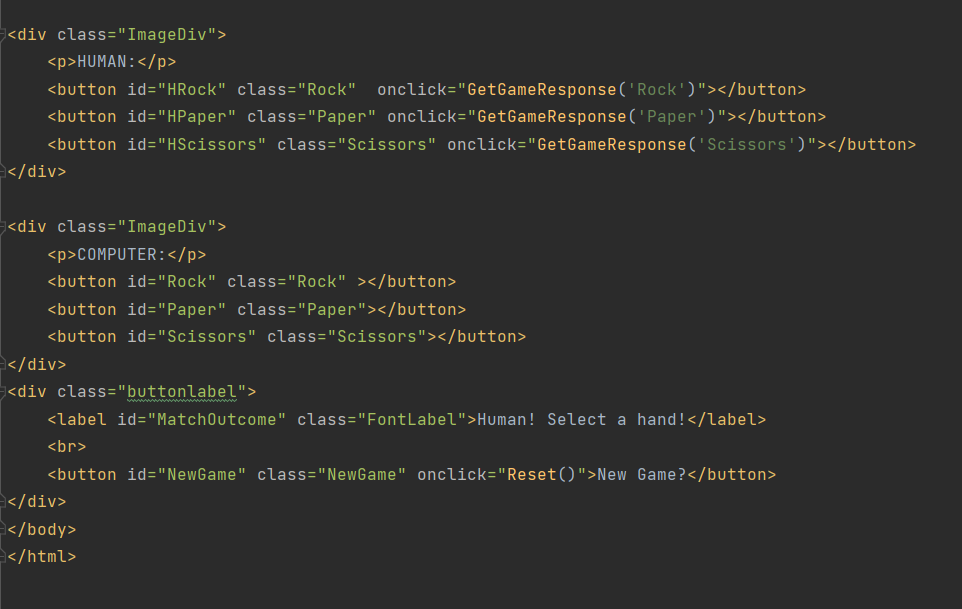
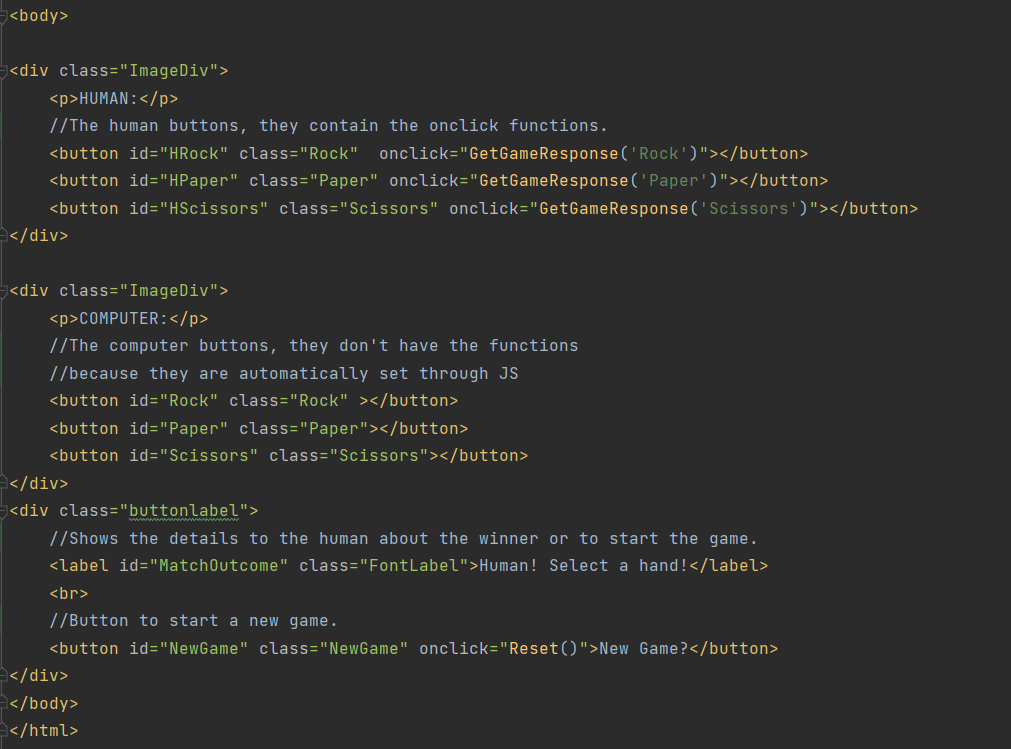
new screenshots

Changed region(s): [[0.0, 0.0, 0.9667, 0.9984]]

diff --git a/Source/ICP-3/RWDTask/input.html b/Source/ICP-3/RWDTask/input.html
@@ -13,51 +13,52 @@ TODO:
 <head>
     <title>RWD Task</title>
     <meta content="text/html; charset=windows-1252" http-equiv="Content-Type">
-    <meta name="viewport" content="width=device-width, initial-scale=1">
+    <meta content='maximum-scale=1.0, initial-scale=1.0, width=device-width' name='viewport'>
     <link rel="stylesheet" type="text/css" href="Style.css">
-    <link rel="stylesheet" href="https://maxcdn.bootstrapcdn.com/bootstrap/3.4.1/css/bootstrap.min.css">
-    <script src="https://ajax.googleapis.com/ajax/libs/jquery/3.5.1/jquery.min.js"></script>
-    <script src="https://maxcdn.bootstrapcdn.com/bootstrap/3.4.1/js/bootstrap.min.js"></script>
+    <link href="https://cdn.jsdelivr.net/npm/bootstrap@5.1.1/dist/css/bootstrap.min.css" rel="stylesheet" integrity="sha384-F3w7mX95PdgyTmZZMECAngseQB83DfGTowi0iMjiWaeVhAn4FJkqJByhZMI3AhiU" crossorigin="anonymous">
+    <script src="https://cdn.jsdelivr.net/npm/bootstrap@5.1.1/dist/js/bootstrap.bundle.min.js" integrity="sha384-/bQdsTh/da6pkI1MST/rWKFNjaCP5gBSY4sEBT38Q/9RBh9AH40zEOg7Hlq2THRZ" crossorigin="anonymous"></script>
+    <script src="https://cdn.jsdelivr.net/npm/@popperjs/core@2.9.3/dist/umd/popper.min.js" integrity="sha384-W8fXfP3gkOKtndU4JGtKDvXbO53Wy8SZCQHczT5FMiiqmQfUpWbYdTil/SxwZgAN" crossorigin="anonymous"></script>
+    <script src="https://cdn.jsdelivr.net/npm/bootstrap@5.1.1/dist/js/bootstrap.min.js" integrity="sha384-skAcpIdS7UcVUC05LJ9Dxay8AXcDYfBJqt1CJ85S/CFujBsIzCIv+l9liuYLaMQ/" crossorigin="anonymous"></script>
 </head>
 <body>
 <div class="container">
     <div class="row rowSpecific">
-        <div class="col-xs-6">
+        <div class="col-sm-6">
             <img class="TopImage" alt="Bean" src="Images/bean.jpg">
         </div>
-        <div class="col-xs-6 text-right">
+        <div class="col-sm-6 text-right">
             <h1 class="TopHeader">MOHAMAD ABBOUD</h1>
             <h3 class="BottomHeader">FRONT-END DEVELOPER</h3>
         </div>
     </div>
 
     <div class="row">
-        <div class="col-xs-12">
-            <img class="MidImage" alt="Image" src="Images/Image.png">
+        <div class="col-sm-12">
+            <img class="MidImage" class="img-fluid" alt="Image" src="Images/Image.png">
         </div>
     </div>
     <div class="row">
-        <div class="col-xs-4">
+        <div class="col-sm-4">
             <h2>Featured Work</h2>
         </div>
     </div>
     <div class="row">
-        <div class="col-xs-4 text-center">
-            <img class="AppImage" alt="app1" src="Images/app1.png">
+        <div class="col-sm-4 text-center">
+            <img class="img-fluid AppImage" alt="app1" src="Images/app3.png">
             <h3 class="AppHeader">ICP1</h3>
             <p><a href="https://github.com/MoAbboud/Web-and-Mobile-Dev/tree/main/Source/ICP-1" target="_blank">
                 https://github.com/MoAbboud/Web-and-Mobile-Dev/tree/main/Source/ICP-1</a>
             </p>
         </div>
-        <div class="col-xs-4 text-center">
-            <img class="AppImage" alt="app2" src="Images/app2.png">
+        <div class="col-sm-4 text-center">
+            <img class="img-fluid AppImage" alt="app2" src="Images/app3.png">
             <h3 class="AppHeader">ICP2</h3>
             <p><a href="https://github.com/MoAbboud/Web-and-Mobile-Dev/tree/main/Source/ICP-2" target="_blank">
                 https://github.com/MoAbboud/Web-and-Mobile-Dev/tree/main/Source/ICP-2</a>
             </p>
         </div>
-        <div class="col-xs-4 text-center">
-            <img class="AppImage" alt="app3" src="Images/app3.png">
+        <div class="col-sm-4 text-center">
+            <img class="img-fluid AppImage" alt="app3" src="Images/app3.png">
             <h3 class="AppHeader">ICP3</h3>
             <p><a href="https://github.com/MoAbboud/Web-and-Mobile-Dev/tree/main/Source/ICP-3" target="_blank">
                 https://github.com/MoAbboud/Web-and-Mobile-Dev/tree/main/Source/ICP-3</a>
@@ -65,8 +66,8 @@ TODO:
         </div>
     </div>
     <div class="row">
-        <div class="col-xs-4 text-center">
-            <img class="AppImage" alt="app4" src="Images/app3.png">
+        <div class="col-sm-4 text-center">
+            <img class="img-fluid AppImage" alt="app4" src="Images/app3.png">
             <h3 class="AppHeader">Angular</h3>
             <p><a href="https://github.com/angular/angular" target="_blank">https://github.com/angular/angular</a></p>
         </div>

diff --git a/Source/ICP-3/JavaScriptTask/index.html b/Source/ICP-3/JavaScriptTask/index.html
@@ -7,16 +7,24 @@
 
     <script>
         function GetGameResponse(choice1) {
-            var arrayofChoice = ["Rock", "Paper", "Scissors"];
+            var arrayofChoice = ["Rock", "Paper", "Scissors"]; //Assigning an array with the choices
 
+            //Using Math.Random I want to get a number between 0 and 2
+            //Using Math.Floor I make sure that number isnt a decimal
             var computerOutput = Math.floor(Math.random() * 3);
 
+            //After getting the random number I use it to select one of the choice from the array
             var pcChoice = arrayofChoice[computerOutput].toString();
+            //Change the opacity for the button that will be the computers choice
             document.getElementById(pcChoice.toString()).style.opacity = "1";
 
             document.getElementById("MatchOutcome").style.color = "#000000";
             document.getElementById("MatchOutcome").innerHTML = "";
+            //Now that I have both the human and computer choice I can make the comparison
+            //to see who won the round.
             if (choice1 == "Rock") {
+                //Similarly for all the options
+                //Whichever choice the human chooses the button's opacity will change to 1
                 document.getElementById("HRock").style.opacity = "1";
                 if (arrayofChoice[computerOutput].toString() == "Rock") {
                     document.getElementById("MatchOutcome").innerHTML = "No winner, play again?";
@@ -44,12 +52,15 @@
                     document.getElementById("MatchOutcome").innerHTML = "No winner, play again?";
                 }
             }
+
+            //Disable the buttons so that the user can't click any other choice during the round
             document.getElementById("HRock").disabled = true;
             document.getElementById("HPaper").disabled = true;
             document.getElementById("HScissors").disabled = true;
         }
 
         function Reset(){
+            //Returning all buttons to their original opacity and enabling them for a new game.
             document.getElementById("Rock").style.opacity = "0.3";
             document.getElementById("Paper").style.opacity = "0.3";
             document.getElementById("Scissors").style.opacity = "0.3";
@@ -70,6 +81,7 @@
 
 <div class="ImageDiv">
     <p>HUMAN:</p>
+    //The human buttons, they contain the onclick functions.
     <button id="HRock" class="Rock"  onclick="GetGameResponse('Rock')"></button>
     <button id="HPaper" class="Paper" onclick="GetGameResponse('Paper')"></button>
     <button id="HScissors" class="Scissors" onclick="GetGameResponse('Scissors')"></button>
@@ -77,13 +89,17 @@
 
 <div class="ImageDiv">
     <p>COMPUTER:</p>
+    //The computer buttons, they don't have the functions
+    //because they are automatically set through JS
     <button id="Rock" class="Rock" ></button>
     <button id="Paper" class="Paper"></button>
     <button id="Scissors" class="Scissors"></button>
 </div>
 <div class="buttonlabel">
+    //Shows the details to the human about the winner or to start the game.
     <label id="MatchOutcome" class="FontLabel">Human! Select a hand!</label>
     <br>
+    //Button to start a new game.
     <button id="NewGame" class="NewGame" onclick="Reset()">New Game?</button>
 </div>
 </body>

diff --git a/Source/ICP-3/RWDTask/Style.css b/Source/ICP-3/RWDTask/Style.css
@@ -1,7 +1,6 @@
 .AppImage{
-
-    width: 350px;
-    height: 200px;
+    width: 700px;
+    height: 400px;
 }
 
 .TopImage{
@@ -12,7 +11,7 @@
 
 .MidImage{
 
-    width: 1140px;
+    width: 1295px;
     height: 450px;
 }
 
